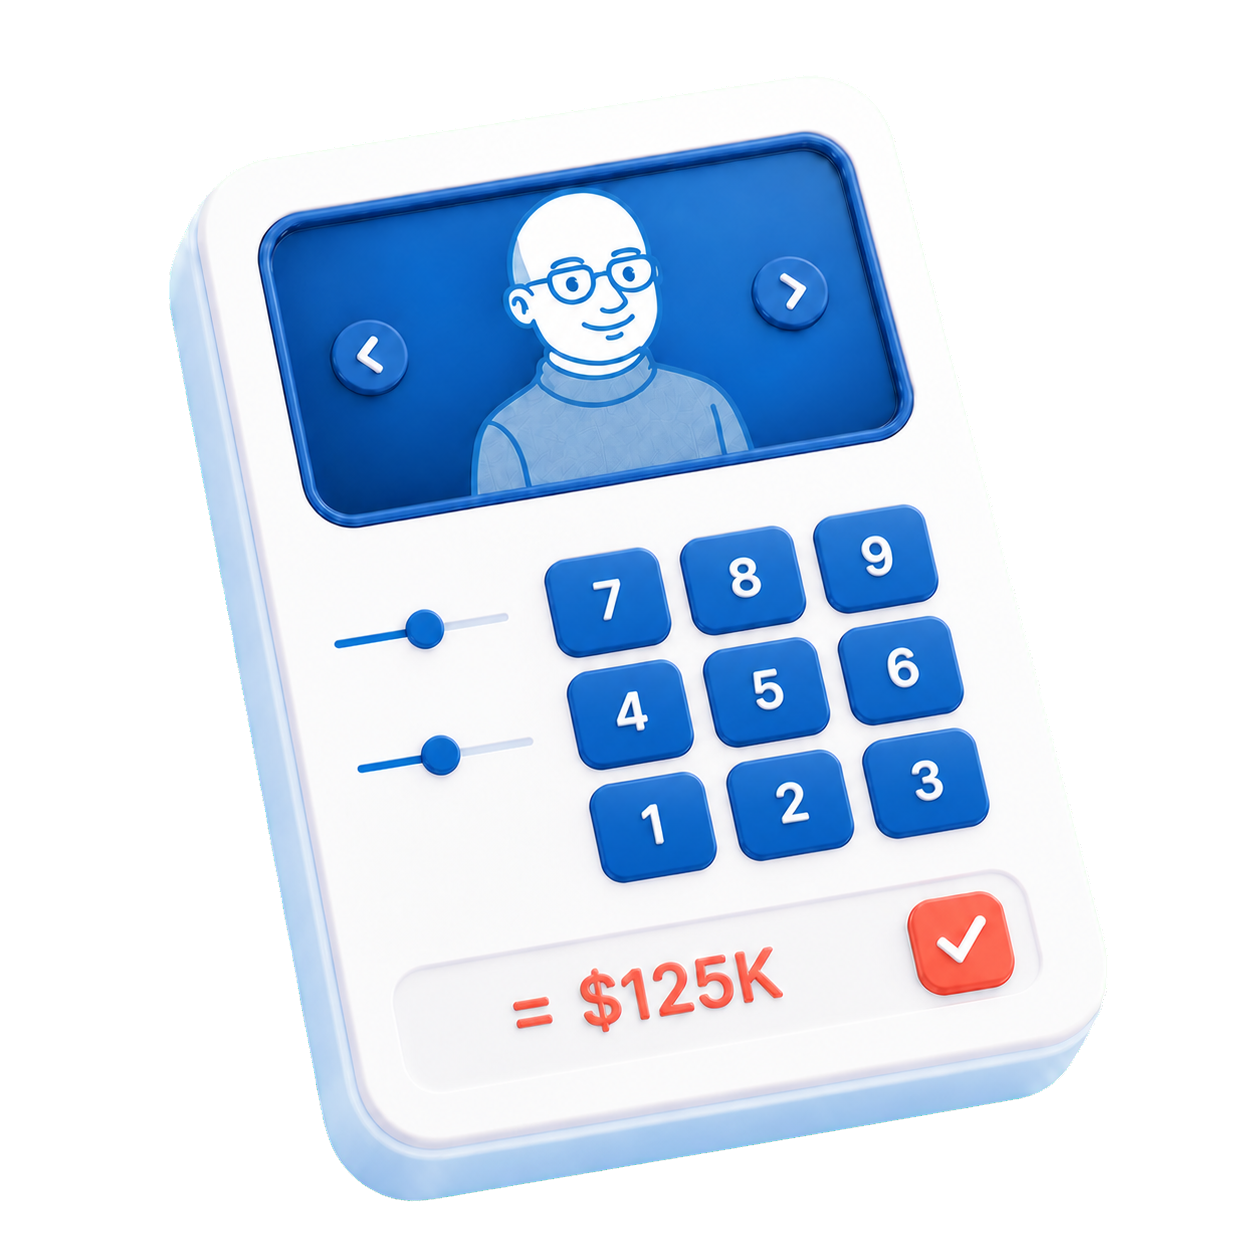
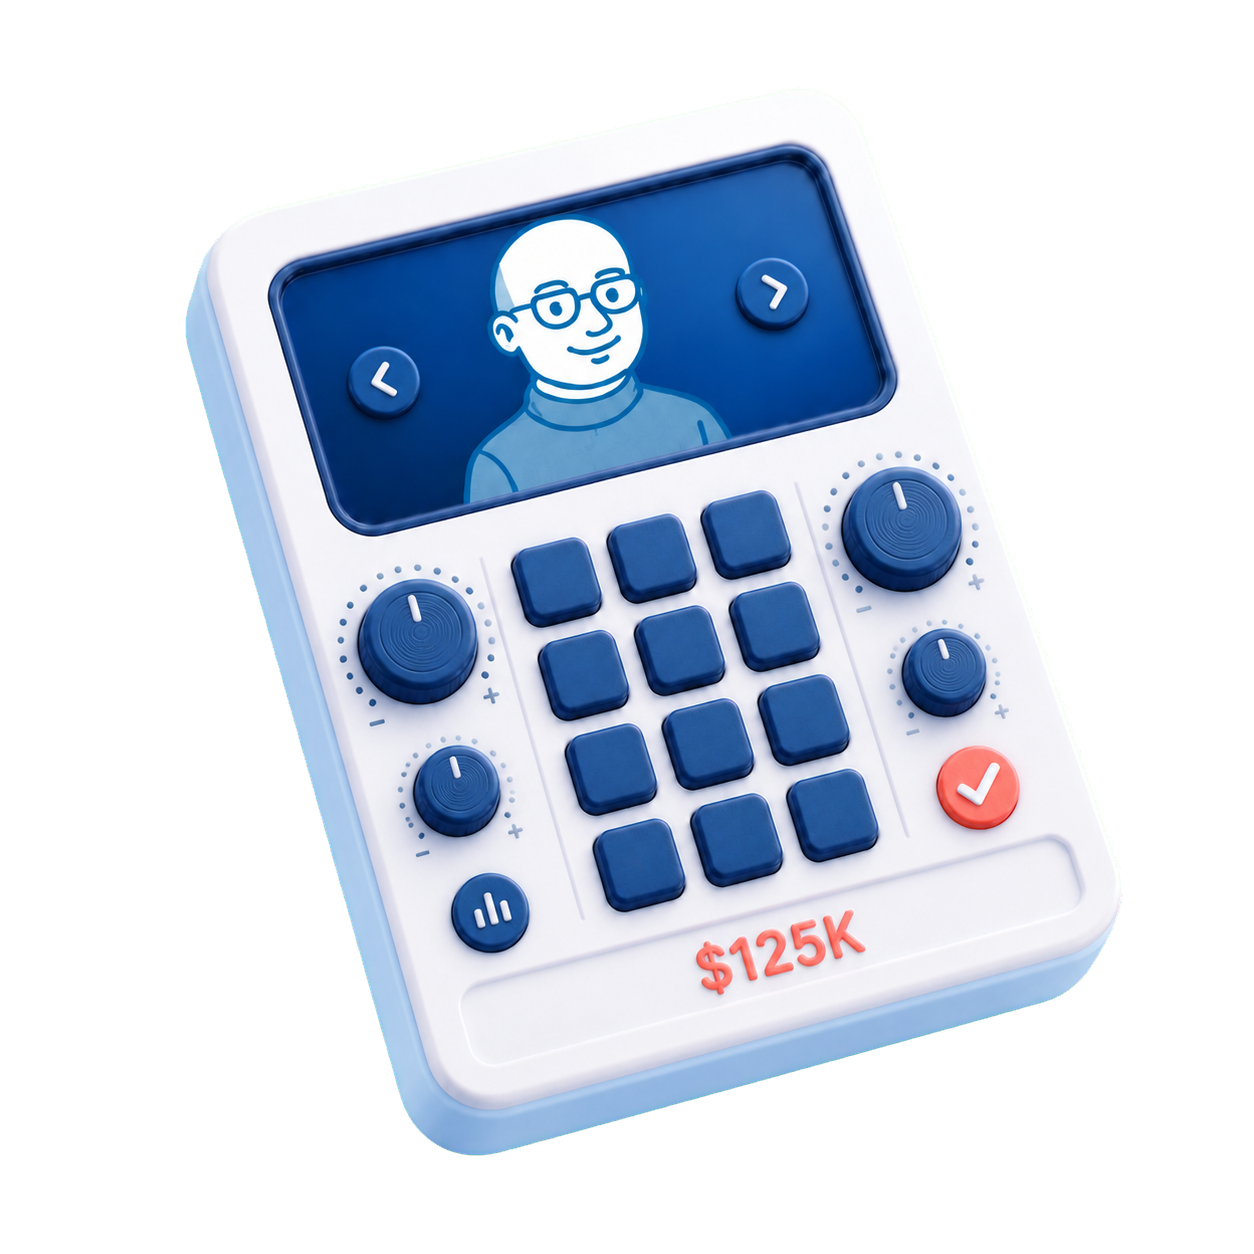
Use transparent provided ROI render

diff --git a/app/page.tsx b/app/page.tsx
@@ -145,7 +145,7 @@ export default function Home() {
                         ) : (
                           <Image
                             className="app-icon-image app-icon-image--roi-calculator"
-                            src="/equisoft-labs/roi-calculator.jpg"
+                            src="/equisoft-labs/roi-calculator.png"
                             alt=""
                             width={1254}
                             height={1254}
